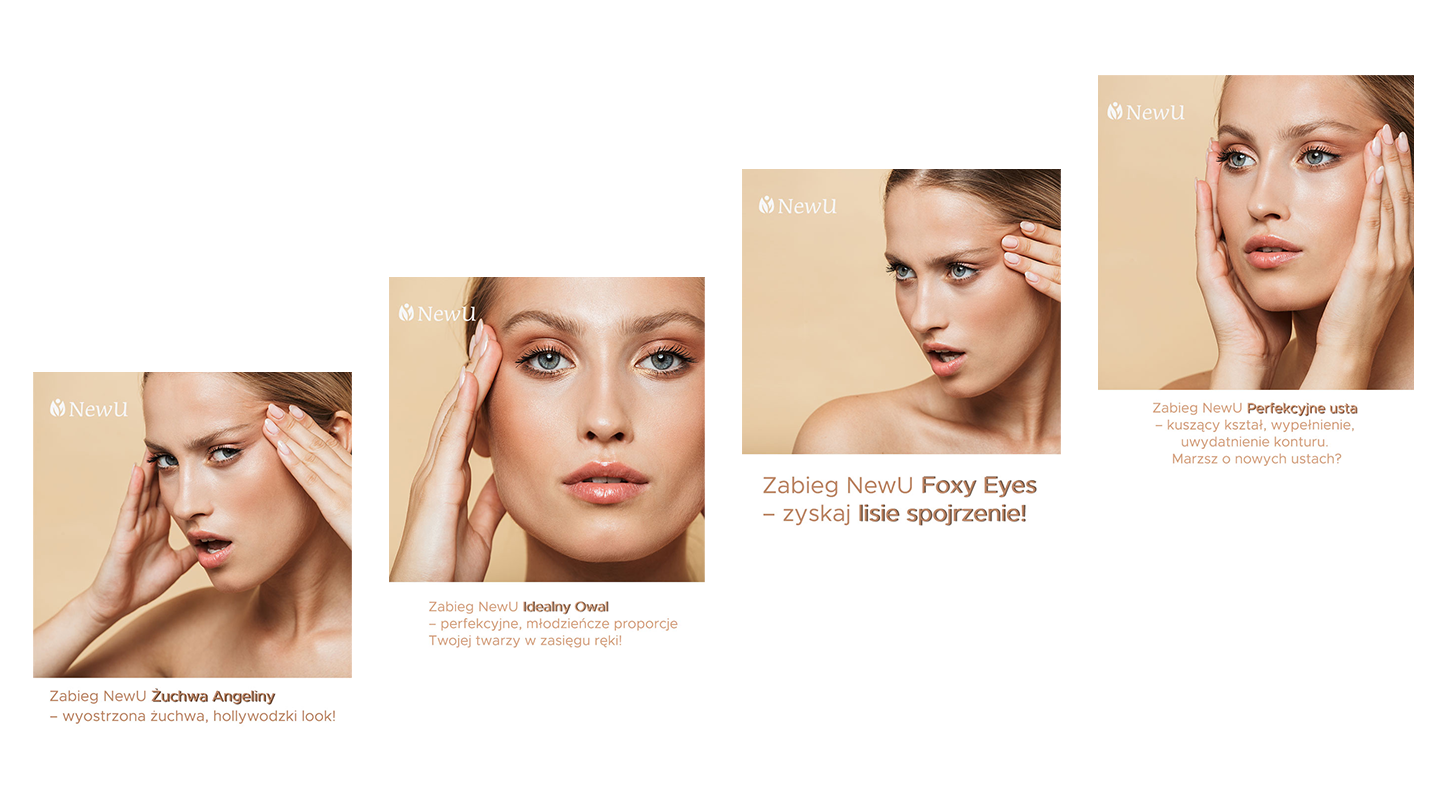
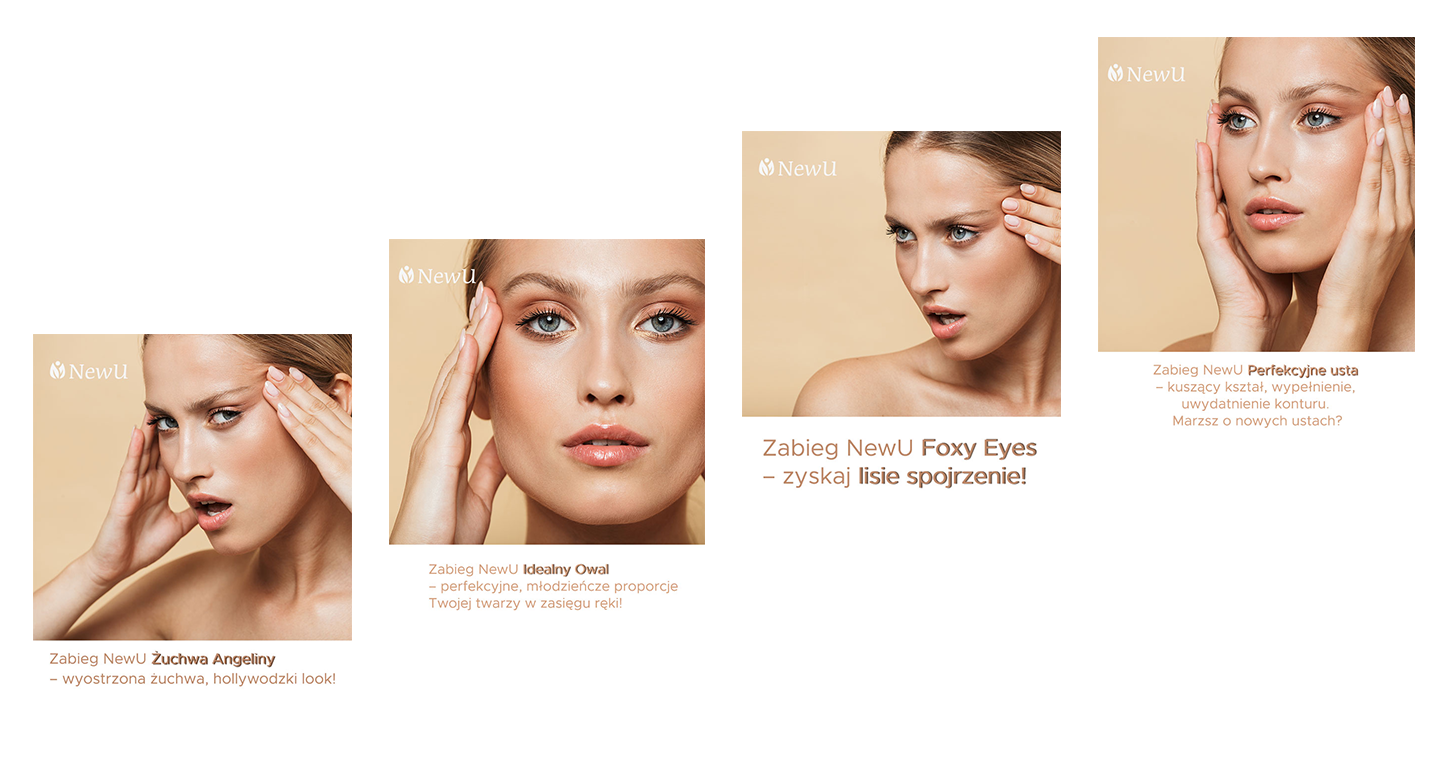
updated slider photo

Changed region(s): [[0.5, 0.0311, 1.0, 0.6528], [0.0, 0.3109, 0.5, 0.9016]]

diff --git a/kosmetologia/peelingi-chemiczne.html b/kosmetologia/peelingi-chemiczne.html
@@ -156,70 +156,6 @@
         <div class="list__item--container">
           <h3 class="list__item--header">8. Peelingi Fillmed (Bright peel, Time peel)</h3>
         </div>
-        <p class="description__paragraph">Efekt zabiegu: <strong>skóra silnie nawilżona, wygładzona, promienna,
-            delikatna w dotyku, ujędrniona</strong></p>
-        <div class="list__item--container">
-          <div class="icons__wrapper">
-            <ion-icon class="therapy__icon--inner" name="checkmark-circle-outline"></ion-icon>
-            <ion-icon class="therapy__icon--inner" name="close-circle-outline"></ion-icon>
-          </div>
-          <h3 class="list__item--header" id="therapy-indications">Wskazania i przeciwskazania do zabiegu</h3>
-        </div>
-        <div class="indications__container">
-          <div class="indications__wrapper">
-            <div class="indications">
-              <ion-icon class="indication__icon" name="checkmark-circle-outline"></ion-icon>
-              <!-- <p class="indication__text"><strong>Wskazania do zabiegu</strong></p> -->
-            </div>
-            <ul class="indications__list">
-              <li>zmarszczki poziome czoła</li>
-              <li>zmarszczki gniewu ("lwia zmarszczka")</li>
-              <li>zmarszczki zewnętrzne kąta oka ("kurze łapki")</li>
-              <li>zmarszczki powieki dolnej</li>
-              <li>zmarszczki nosa ("zmarszczki królicze")</li>
-              <li>uśmiech dziąsłowy ("gummy smile")</li>
-              <li>zmarszczki wargi dolnej i górnej ("zmarszczki palacza")</li>
-              <li>linie marionetki</li>
-              <li>zmarszczki brody ("broda brukowana")</li>
-              <li>pasma mięśnia szerokiego szyi</li>
-              <li>nadpotliwość pach, dłoni i stóp</li>
-            </ul>
-          </div>
-          <div class="indications__wrapper">
-            <div class="contraindications">
-              <ion-icon class="indication__icon" name="close-circle-outline"></ion-icon>
-              <!-- <p class="contraindication__text"><strong>Przeciwskazania do zabiegu</strong></p> -->
-            </div>
-            <ul class="contraindications__list">
-              <li>ciąża i okres laktacji</li>
-              <li>nadwrażliwość na składniki preparatu</li>
-              <li>miejscowe infekcje skóry</li>
-              <li>zaburzenia przewodnictwa nerwowo-mięśniowego (miastenia gravis, zespół Lamberta Eatona)
-              </li>
-              <li>stosowanie niektórych leków (aminoglikozydy, aminochinolony, D-penicylamina,
-                cyklosporyna, linkomycyna, tetracyklina, polimyksyna, antagoniści kanałów wapniowych)
-              </li>
-              <li>zaburzenia krzepnięcia, stosowanie leków antykoagulacyjnych</li>
-              <li>po zabiegach chirurgicznych (2-4 tyg)</li>
-            </ul>
-          </div>
-        </div>
-        <div class="list__item--container">
-          <ion-icon class="therapy__icon" name="document-text-outline"></ion-icon>
-          <h3 class="list__item--header" id="post-therapy">Zalecenia pozabiegowe</h3>
-        </div>
-        <ul class="recommendations__list">
-          <li>przez 1-2 tyg nie opalać się i nie korzystać z sauny,</li>
-          <li>nie podejmować jakiegokolwiek wysiłku fizycznego, unikać schylania i kładzenia się przez 4
-            godziny,</li>
-          <li>nie uciskać, nagrzewać miejsc w które wstrzyknięto substancję,</li>
-          <li>nie spożywać alkoholu w dniu zabiegu,</li>
-          <li>nie latać samolotem w dniu zabiegu,</li>
-          <li>przez okres 2-4 godzin wykonywać ruchy mimiczne w celu zapewnienia najlepszego wchłonięcia
-            preparatu,</li>
-          <li>inne zabiegi medycyny estetycznej można bezpiecznie wykonywać po 2-3 tygodniach od podania
-            toksyny</li>
-        </ul>
       </article>
       <a class="center therapy__price mt-3 mb-3"
         href="../medycyna-estetyczna/cennik-medycyna-estetyczna.html#botoks">Sprawdź cenę zabiegu</a>

diff --git a/assets/style/style.css b/assets/style/style.css
@@ -554,7 +554,7 @@ img {
 }
 
 .slide:nth-child(2) {
-  background: url('../../img/poczekalnia_1.png') no-repeat center center/cover;
+  background: url('../../img/poczekalnia_2.png') no-repeat center center/cover;
 }
 
 .slide:nth-child(3) {
@@ -611,7 +611,7 @@ img {
 }
 
 .slide:nth-child(2) {
-  background: url('../../img/poczekalnia_1.png') no-repeat center center/contain;
+  background: url('../../img/poczekalnia_2.png') no-repeat center center/contain;
 }
 
 .slide:nth-child(3) {

diff --git a/kosmetologia/zabiegi-pielegnacyjne.html b/kosmetologia/zabiegi-pielegnacyjne.html
@@ -69,6 +69,7 @@
           </ul>
         </li>
         <li><a href="../index.html#contact" class="menu-link">Kontakt</a></li>
+        <li><a href="../informacja-covid.html" class="menu-link">Informacja COVID-19</a></li>
       </ul>
     </nav>
   </header>
